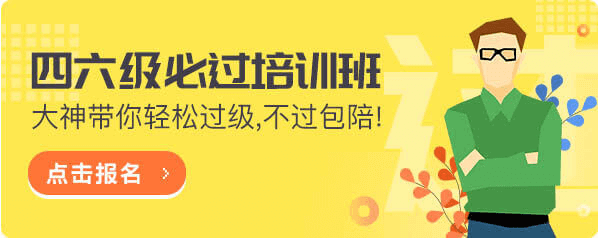
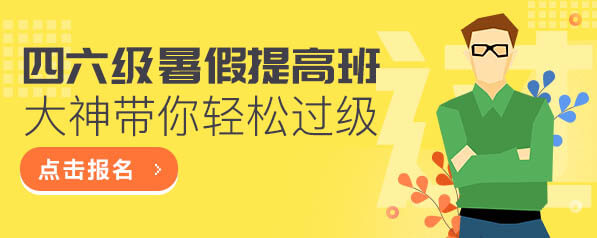
四六级直播课程视觉修改

diff --git a/page/discover/pages/CET/CET_sign_up.js b/page/discover/pages/CET/CET_sign_up.js
@@ -6,7 +6,7 @@ Page({
    * 页面的初始数据
    */
   data: {
-    img_urls: ['https://file.ourbeibei.com/l_e/static/images/bg_cet_1.png', 'https://file.ourbeibei.com/l_e/static/images/bg_cet_2.png', 'https://file.ourbeibei.com/l_e/static/images/bg_cet_3.png', 'https://file.ourbeibei.com/l_e/static/images/bg_cet_4.png', 'https://file.ourbeibei.com/l_e/static/images/bg_cet_5.png', 'https://file.ourbeibei.com/l_e/static/images/bg_cet_6.png', 'https://file.ourbeibei.com/l_e/static/images/bg_cet_7.png', 'https://file.ourbeibei.com/l_e/static/images/bg_cet_8.png', 'https://file.ourbeibei.com/l_e/static/images/bg_cet_9.png', 'https://file.ourbeibei.com/l_e/static/images/bg_cet_10.png', 'https://file.ourbeibei.com/l_e/static/images/bg_cet_11.png', 'https://file.ourbeibei.com/l_e/static/images/bg_cet_12.png', 'https://file.ourbeibei.com/l_e/static/images/bg_cet_13.png'],
+    img_urls: ['https://file.ourbeibei.com/l_e/static/images/bg_cet_1.png', 'https://file.ourbeibei.com/l_e/static/images/bg_cet_2.png', 'https://file.ourbeibei.com/l_e/static/images/bg_cet_3.png', 'https://file.ourbeibei.com/l_e/static/images/bg_cet_4.png', 'https://file.ourbeibei.com/l_e/static/images/bg_cet_5.png', 'https://file.ourbeibei.com/l_e/static/images/bg_cet_6.png', 'https://file.ourbeibei.com/l_e/static/images/bg_cet_7.png', 'https://file.ourbeibei.com/l_e/static/images/bg_cet_8.png', 'https://file.ourbeibei.com/l_e/static/images/bg_cet_9.png', 'https://file.ourbeibei.com/l_e/static/images/bg_cet_10.png', 'https://file.ourbeibei.com/l_e/static/images/bg_cet_11.png'],
     vidx: 0,
     isShowDialog: false,
     translateAnimation: '',
@@ -39,16 +39,22 @@ Page({
         console.log(res)
         if (res.data.status == 200) {
           let rawData = res.data.data
+          console.log(rawData)
           let st = rawData.st
           st = st.split(' ')[0]
           let dates = st.split('/')
-          st = dates[0] + "年" + dates[1] + '月' + dates[2] + '日'
+          st = dates[1] + '月' + dates[2] + '日'
+          let et = rawData.et
+          et = et.split(' ')[0]
+          dates = et.split('/')
+          et = dates[1] + '月' + dates[2] + '日'
           let people = rawData.people
           let status = rawData.status
           let virtualUser = rawData.virtualUser
           let user_id = rawData.user_id
           this.setData({
             st: st,
+            et: et,
             people: people,
             status: status,
             virtualUser: virtualUser,
